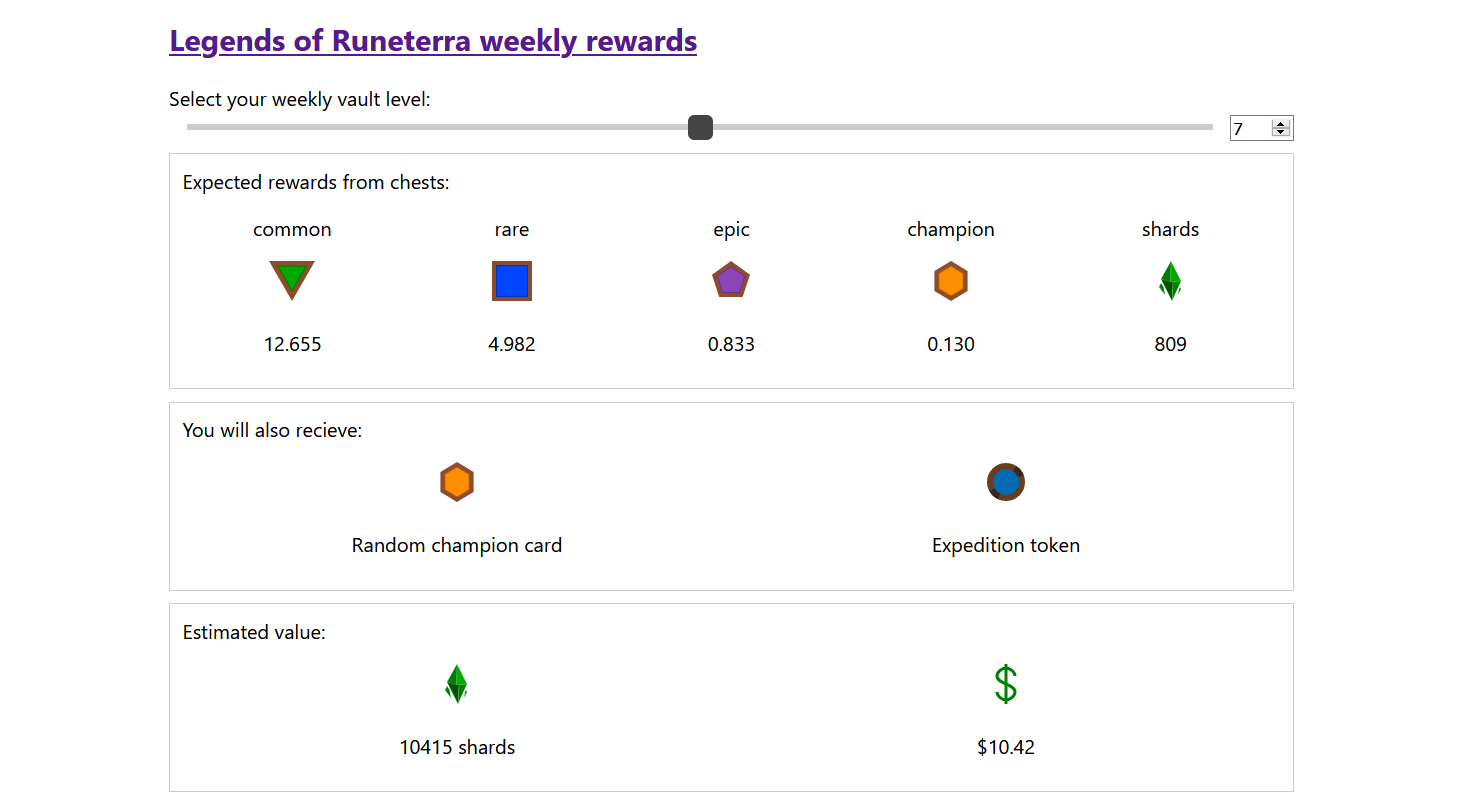
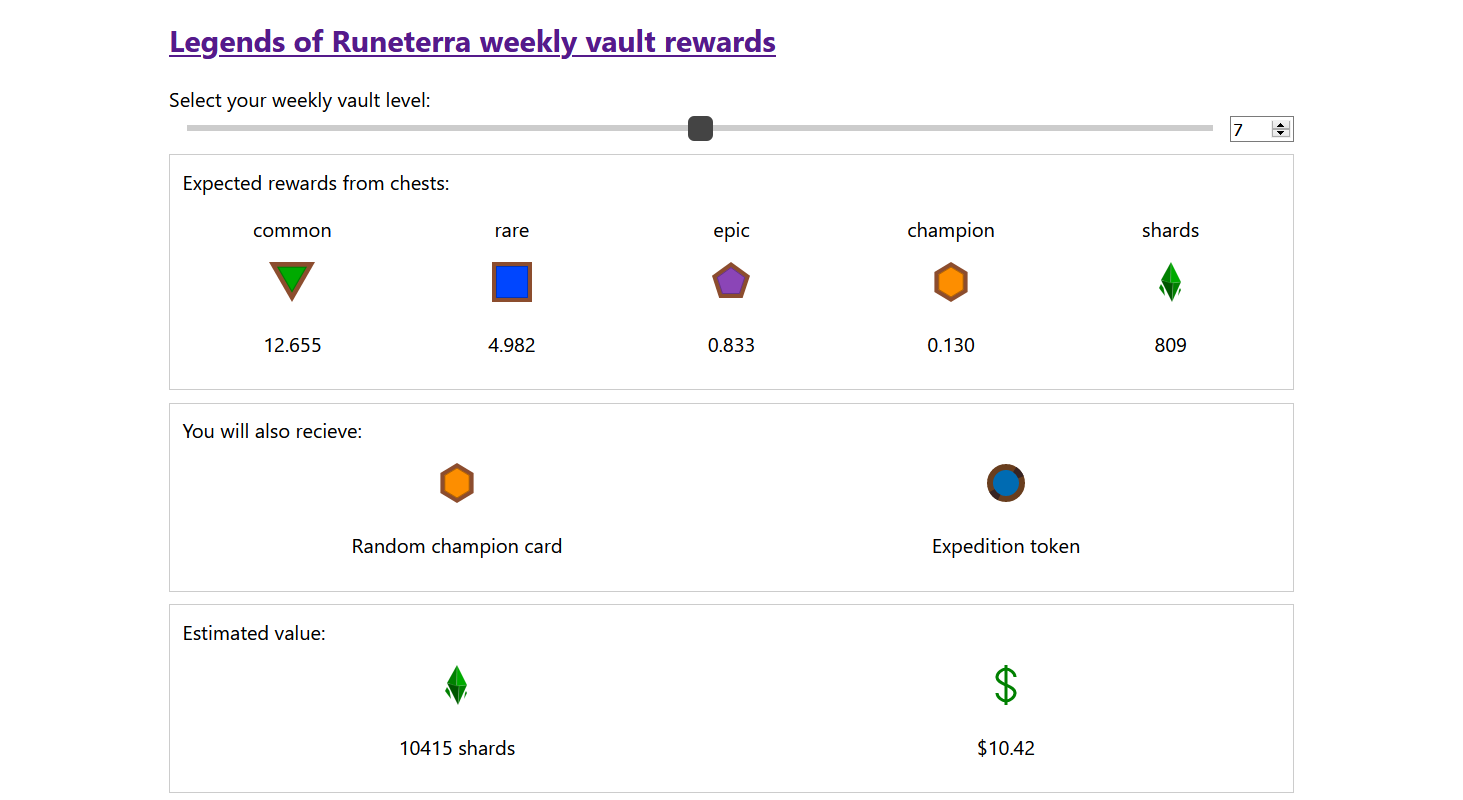
Improve wording consistency

diff --git a/pages/index.tsx b/pages/index.tsx
@@ -19,14 +19,14 @@ const Home: FunctionComponent<Props> = ({ levelRewards }) => {
         <>
             <Head>
                 <script async defer data-domain="szebniok.github.io/lor-rewards" src="https://stats.000077.xyz/js/plausible.js"></script>
-                <title>Legends of Runeterra weekly rewards</title>
-                <meta name="description" content="Legends of Runeterra weekly rewards calculator" />
+                <title>Legends of Runeterra weekly vault rewards</title>
+                <meta name="description" content="Legends of Runeterra weekly vault rewards calculator" />
             </Head>
             <nav>
                 <h1>
                     <Link href="/">
                         <a>
-                            Legends of Runeterra weekly rewards
+                            Legends of Runeterra weekly vault rewards
                         </a>
                     </Link>
                 </h1>

diff --git a/README.md b/README.md
@@ -1,7 +1,7 @@
 <p align="center">
     <h3 align="center">lor-rewards</h3>
     <p align="center">
-        Legends of Runeterra weekly rewards calculator
+        Legends of Runeterra weekly vault rewards calculator
         <br />
         <a href="https://szebniok.github.io/lor-rewards"><strong>Open in browser &#187;</strong></a>
     </p>
@@ -11,7 +11,7 @@
 
 [![lor-rewards screenshot](screenshot.png)](https://szebniok.github.io/lor-rewards)
 
-This project is a simple calculator that aims to estimate expected value of weekly rewards in [Legends of Runeterra](https://playruneterra.com). 
+This project is a simple calculator that aims to estimate expected value of weekly vault rewards in [Legends of Runeterra](https://playruneterra.com). 
 
 It is available at [https://szebniok.github.io/lor-rewards](https://szebniok.github.io/lor-rewards)
 
